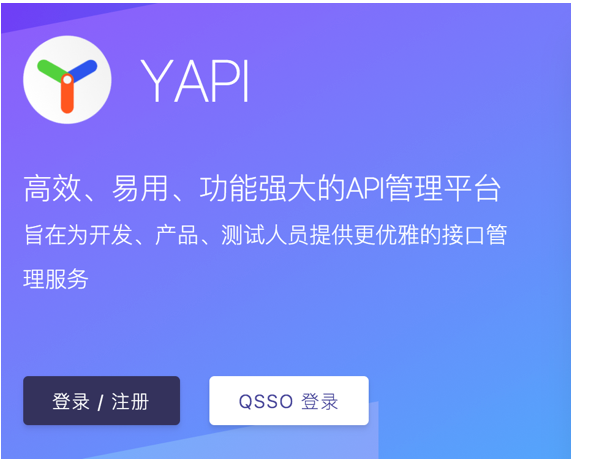
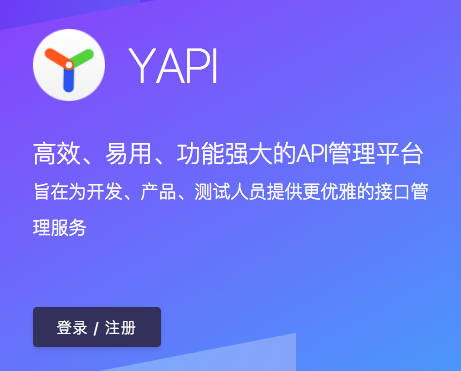
docs: build

Changed region(s): [[0.0, 0.0, 1.0, 1.0], [0.0304, 0.3558, 0.9111, 0.4447]]

diff --git a/static/doc/source/code.css b/static/doc/source/code.css
@@ -1,1 +1,1 @@
[2 lines of base64/hex data omitted]

diff --git a/static/doc/source/main.css b/static/doc/source/main.css
@@ -1,1 +1,1 @@
[2 lines of base64/hex data omitted]

diff --git a/static/doc/qa.html b/static/doc/qa.html
@@ -149,6 +149,10 @@
                                     <li >
                                         <a href="#Q2__怎么快速把之前项目接口迁移过来？">Q2: 怎么快速把之前项目接口迁移过来？</a>
                                     </li>
+                                     
+                                    <li >
+                                        <a href="#Q3__忘记密码怎么办？">Q3: 忘记密码怎么办？</a>
+                                    </li>
                                  
                                 </ul>
                                   
@@ -160,7 +164,7 @@
 
                          <p>本页面罗列了大家使用 YApi 时遇到的常见问题.</p>
 <p>如果没有找到您要的答案，请 qtalk 联系: <code>wenbo.dong; wenxiong.su; wenjie.zhang.</code></p>
-<h2 class="subject" id="Q1__怎样联系组长？">Q1: 怎样联系组长？ <a class="hashlink" href="#Q1__怎样联系组长？">#</a></h2><p>A: 组长分为 <code>分组组长</code> 和 <code>项目组长</code>:</p>
+<h2 class="subject" id="Q1__怎样联系组长？">Q1: 怎样联系组长？ <a class="hashlink" href="#Q1__怎样联系组长？">#</a></h2><p>组长分为 <code>分组组长</code> 和 <code>项目组长</code>:</p>
 <ul>
 <li>分组组长：选择首页左侧的分组，点击右侧面板的 <code>成员列表</code>，成员右侧显示着 <code>组长/开发者</code> 的权限信息。
 <img src="./images/usage/manage_find_manager.png" /></li><li>项目组长: 点击项目页的 <code>设置</code> - <code>成员列表</code>，成员右侧显示着 <code>组长/开发者</code> 的权限信息。
@@ -169,6 +173,7 @@
 <p>第二步 录制当前项目所有请求，导出到har文件</p>
 <p>第三步 将Har数据导入到YApi平台</p>
 <p>具体使用方法请参考YApi<a  href="./data.html#HAR%08%08_数据导入">文档</a></p>
+<h2 class="subject" id="Q3__忘记密码怎么办？">Q3: 忘记密码怎么办？ <a class="hashlink" href="#Q3__忘记密码怎么办？">#</a></h2><p>请联系 <code>超级管理员</code> ，只有超级管理员能重置密码。</p>
 
                     </div>
                 </div>

diff --git a/static/doc/quickstart.html b/static/doc/quickstart.html
@@ -167,8 +167,9 @@
 <ul>
 <li><a href="#获取权限">获取权限</a></li><li><a href="#选择项目">找到一个项目</a></li><li><a href="#新建接口">新建接口</a></li></ul>
 <p>搞定~</p>
-<h2 class="subject" id="获取权限">获取权限 <a class="hashlink" href="#获取权限">#</a></h2><p>新用户登录后没有任何项目或分组的权限，只能浏览已存在分组下面的公开项目。</p>
-<p>如果找不到想找的项目，可能是未成为项目成员，此时应联系 <code>项目组长</code> 将你加入该项目。</p>
+<h2 class="subject" id="获取权限">获取权限 <a class="hashlink" href="#获取权限">#</a></h2><p>新用户登录拥有 <code>个人空间</code> 分组下的全部权限，个人空间分组仅自己可见，因此可以在这里任意试用 YApi 的功能。</p>
+<p>除此以外没有任何项目或分组的权限，只能浏览已存在分组下面的公开项目。</p>
+<p>如果找不到想找的项目，可能是尚未成为项目成员，此时应联系 <code>项目组长</code> 将你加入该项目。</p>
 <p><a href="./qa.html#Q__怎样联系组长？">怎样联系组长？</a></p>
 <p><img src="./images/usage/manage_ask.png" /></p>
 <ul>

diff --git a/static/doc/getfamiliar.html b/static/doc/getfamiliar.html
@@ -169,7 +169,7 @@
                          <p>YApi 是高效、易用、功能强大的api管理平台。
 <!-- 它有扁平化的管理结构(`超管`-`组长`-`组员`)，有清晰的接口组织方式(`分组`-`项目`-`接口`)，有更方便的mock方案。 --></p>
 <p>在开始使用 YApi 之前，我们先来熟悉一下 YApi 的网站结构，这将让你快速了解YApi。</p>
-<h2 class="subject" id="登录与注册">登录与注册 <a class="hashlink" href="#登录与注册">#</a></h2><p>想要使用 YApi ，首先要拥有账号，目前支持注册账号登录与QSSO登录两种方式。</p>
+<h2 class="subject" id="登录与注册">登录与注册 <a class="hashlink" href="#登录与注册">#</a></h2><p>想要使用 YApi ，首先要注册账号。</p>
 <p><img src="./images/usage/login.png" /></p>
 <h2 class="subject" id="首页">首页 <a class="hashlink" href="#首页">#</a></h2><p>登录后进入首页，首页展示了分组与项目。</p>
 <p>此时你作为新用户，没有任何分组与项目的权限，因此只能搜索、浏览 “公开项目” 的接口，如果在首页找不到任何项目，请联系管理员将你加入对应项目。</p>

diff --git a/static/doc/index.html b/static/doc/index.html
@@ -149,7 +149,7 @@
                          <p>YApi 是高效、易用、功能强大的api管理平台。
 <!-- 它有扁平化的管理结构(`超管`-`组长`-`组员`)，有清晰的接口组织方式(`分组`-`项目`-`接口`)，有更方便的mock方案。 --></p>
 <p>在开始使用 YApi 之前，我们先来熟悉一下 YApi 的网站结构，这将让你快速了解YApi。</p>
-<h2 class="subject" id="登录与注册">登录与注册 <a class="hashlink" href="#登录与注册">#</a></h2><p>想要使用 YApi ，首先要拥有账号，目前支持注册账号登录与QSSO登录两种方式。</p>
+<h2 class="subject" id="登录与注册">登录与注册 <a class="hashlink" href="#登录与注册">#</a></h2><p>想要使用 YApi ，首先要注册账号。</p>
 <p><img src="./images/usage/login.png" /></p>
 <h2 class="subject" id="首页">首页 <a class="hashlink" href="#首页">#</a></h2><p>登录后进入首页，首页展示了分组与项目。</p>
 <p>此时你作为新用户，没有任何分组与项目的权限，因此只能搜索、浏览 “公开项目” 的接口，如果在首页找不到任何项目，请联系管理员将你加入对应项目。</p>

diff --git a/static/doc/source/app.js b/static/doc/source/app.js
@@ -8,6 +8,7 @@ $(document).ready(function() {
     var $versionSelector = $('.version-selector');
     var $versionMask = $('.m-version-mask');
     var isPanelHide = true;
+    var winWidth = $(window).width();
     var h2 = $('.content-right').find('h2');
     var h3 = $('.content-right').find('h3');
     var a = $('.content-left').find('a');

diff --git a/doc/page/usage/quickstart.md b/doc/page/usage/quickstart.md
@@ -13,9 +13,11 @@
 
 ## 获取权限
 
-新用户登录后没有任何项目或分组的权限，只能浏览已存在分组下面的公开项目。
+新用户登录拥有 `个人空间` 分组下的全部权限，个人空间分组仅自己可见，因此可以在这里任意试用 YApi 的功能。
 
-如果找不到想找的项目，可能是未成为项目成员，此时应联系 `项目组长` 将你加入该项目。
+除此以外没有任何项目或分组的权限，只能浏览已存在分组下面的公开项目。
+
+如果找不到想找的项目，可能是尚未成为项目成员，此时应联系 `项目组长` 将你加入该项目。
 
 [怎样联系组长？](./qa.html#Q__怎样联系组长？)
 

diff --git a/doc/page/usage/getfamiliar.md b/doc/page/usage/getfamiliar.md
@@ -4,7 +4,7 @@ YApi 是高效、易用、功能强大的api管理平台。
 在开始使用 YApi 之前，我们先来熟悉一下 YApi 的网站结构，这将让你快速了解YApi。
 
 ## 登录与注册
-想要使用 YApi ，首先要拥有账号，目前支持注册账号登录与QSSO登录两种方式。
+想要使用 YApi ，首先要注册账号。
 
 <img src="./images/usage/login.png" />
 
